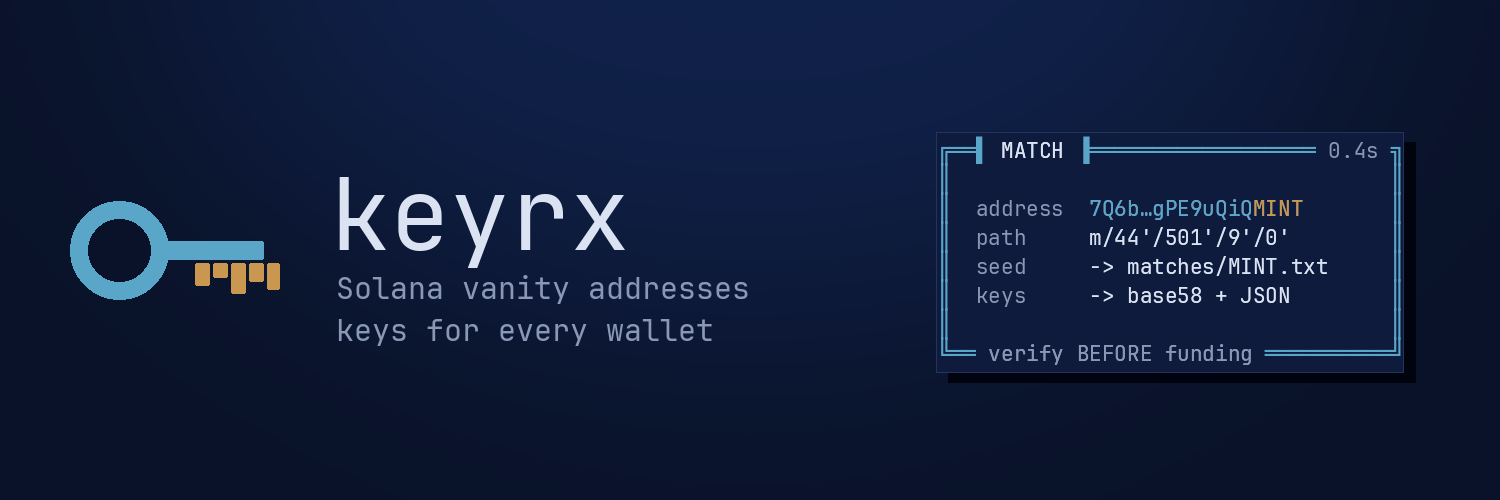
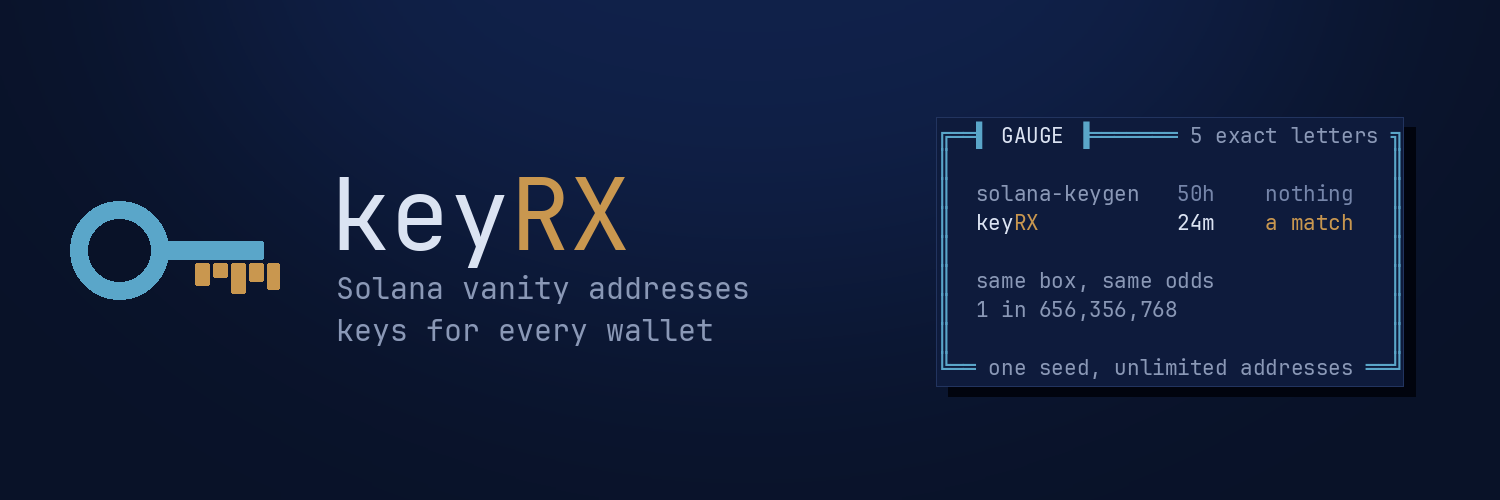
keyRX: the brand's own case, and the headline
Brand mentions restyle as keyRX - masthead, site wordmark and title,
README, logo title, donate copy - while the command, crate, paths and
URLs stay lowercase keyrx (a mixed-case command is hostile). Banner and
OG image rebuilt: keyRX wordmark with the amber RX, and the headline
panel with the operator's own numbers - GAUGE, five exact letters:
solana-keygen 50h nothing, keyRX 24m a match, same box, same odds - as
measured, colored segments painted once. README leads with the same
line.

diff --git a/site/index.html b/site/index.html
@@ -3,7 +3,7 @@
 <head>
 <meta charset="utf-8">
 <meta name="viewport" content="width=device-width,initial-scale=1">
-<title>keyrx — Solana vanity addresses, keys for every wallet</title>
+<title>keyRX — Solana vanity addresses, keys for every wallet</title>
 <meta name="description" content="keyrx grinds Solana vanity addresses 20-60x faster than solana-keygen and hands you the seed, the path and the keypair in both wallet-import forms. One Rust binary. No daemon, no service, no network.">
 <meta http-equiv="Content-Security-Policy" content="default-src 'none'; script-src 'unsafe-inline' blob:; style-src 'unsafe-inline'; font-src data:; img-src 'self' data:; worker-src blob:; base-uri 'none'; form-action 'none'">
 <meta name="referrer" content="strict-origin-when-cross-origin">
@@ -14,7 +14,7 @@
 <link rel="apple-touch-icon" sizes="180x180" href="/favicon-180.png">
 <meta property="og:image" content="https://keyrx.tech/og.png">
 <meta name="twitter:card" content="summary_large_image">
-<meta property="og:title" content="keyrx — vanity addresses, keys for every wallet">
+<meta property="og:title" content="keyRX — vanity addresses, keys for every wallet">
 <meta property="og:description" content="Try the grind in your browser. Nothing leaves it.">
 <meta property="og:url" content="https://keyrx.tech/">
 <style>
@@ -82,9 +82,9 @@ noscript div{white-space:normal;max-width:68ch;color:var(--gray);padding:1em 0}
 <body>
 <div id="scr"><div id="page">
 <noscript><div>
-  <h1>keyrx</h1>
+  <h1>keyRX</h1>
   <p>Solana vanity addresses, 20-60x faster than solana-keygen grind. One seed phrase is a tree of
-  addresses: keyrx pays the expensive step once per seed and walks the branches. Every match writes
+  addresses: keyRX pays the expensive step once per seed and walks the branches. Every match writes
   the address, its derivation path, the seed, and the keypair in both wallet-import forms (base58 for
   Phantom, JSON array for Solflare). One Rust binary. No daemon, no service, no network.</p>
   <pre>cargo install keyrx
@@ -114,7 +114,7 @@ var out=document.getElementById('out'),scr=document.getElementById('scr'),
     inp=document.getElementById('in'),prom=document.getElementById('prompt'),
     sr=document.getElementById('sr');
 /* One place for the donation address; the CLI carries the same string in
-   its DONATE_SOL const - change both together. Empty until the keyrx vanity
+   its DONATE_SOL const - change both together. Empty until the keyRX vanity
    grind lands; the panel says so rather than show an address that is not ours. */
 var DONATE_SOL='';
 var MOBILE=false, W=78, IN=76;
@@ -165,7 +165,7 @@ function fmtDur(s){if(!isFinite(s)||s<0)return '--';if(s<90)return Math.round(s)
 
 /* ── masthead ─────────────────────────────────────────────────────────── */
 function masthead(right){
-  var head='[[c]]▐▌[[/]] [[w]]KEYRX[[/]]  [[d]]'+(MOBILE?'vanity addresses':'vanity addresses, keys for every wallet')+'[[/]]';
+  var head='[[c]]▐▌[[/]] [[w]]keyRX[[/]]  [[d]]'+(MOBILE?'vanity addresses':'vanity addresses, keys for every wallet')+'[[/]]';
   var rt='[[d]]'+right+'[[/]]';
   line(' '+head+' '.repeat(Math.max(1,W-vis(head)-vis(rt)-2))+rt);
   line(' [[f]]'+'━'.repeat(W-2)+'[[/]]');
@@ -225,7 +225,7 @@ var C={};
 C.what=function(){blank();
   head('WHAT THIS IS',MOBILE?'':'one seed, unlimited addresses, keys for every wallet');
   prose('d','Grinds Solana vanity addresses - an address that ends (or starts) with the letters you choose - and hands you everything a wallet needs to hold it: seed phrase, derivation path, and the keypair in both import forms (base58 for Phantom, JSON array for Solflare).');row('');
-  prose('d','Fast because solana-keygen grind pays 2048 rounds of PBKDF2 (~1.2 ms) to test ONE address; keyrx pays it once per seed, then walks that seed\'s account indices at ~21 us each: 20-60x the throughput.');row('');
+  prose('d','Fast because solana-keygen grind pays 2048 rounds of PBKDF2 (~1.2 ms) to test ONE address; keyRX pays it once per seed, then walks that seed\'s account indices at ~21 us each: 20-60x the throughput.');row('');
   prose('d','Standalone. No daemon, no service, no network. Secrets go to a mode-0600 file in a directory of their own, never to the screen unless you ask.');
   foot('verify -> bench -> estimate -> grind -> show');
   if(!MOBILE){
@@ -251,7 +251,7 @@ C.install=function(){blank();
   row('');
   note('or from source:  git clone https://github.com/keyrx/keyrx && cd keyrx');
   note('                 RUSTFLAGS="-C target-cpu=native" cargo install --path .');
-  foot('keyrx alone prints a start screen that explains every flag');blank();};
+  foot('keyrx (the command) alone prints a start screen that explains every flag');blank();};
 C.match=function(){blank();
   head('WHAT A MATCH WRITES',MOBILE?'':'five lines, mode 0600, in a directory of their own');
   kv('address','the vanity address');
@@ -290,7 +290,7 @@ C.verified=function(){blank();
   foot(MOBILE?'':'a wrong SLIP-0010 grinds fine and prints an address no wallet can derive - so it is tested');blank();};
 C.donate=function(){blank();
   head('DONATE',MOBILE?'':'optional, and it changes nothing');
-  prose('d','keyrx is MIT and stays that way. No paid tier, no hosted version waiting behind it, no feature held back. Nothing here is gated on this.');row('');
+  prose('d','keyRX is MIT and stays that way. No paid tier, no hosted version waiting behind it, no feature held back. Nothing here is gated on this.');row('');
   row('  [[w]]Solana[[/]]');
   if(DONATE_SOL){
     if(MOBILE){row('  [[y]]'+DONATE_SOL.slice(0,5)+'...'+DONATE_SOL.slice(-5)+'[[/]]  [[f]]tap to copy[[/]]');}
@@ -298,16 +298,16 @@ C.donate=function(){blank();
     (function(){var b=out.querySelectorAll('b.y');for(var i=b.length-1;i>=0;i--){var t=b[i].textContent.trim();
       if(t===DONATE_SOL||t===DONATE_SOL.slice(0,5)+'...'+DONATE_SOL.slice(-5)){b[i].className='y addr';b[i].title='click to copy';break;}}})();
   } else {
-    prose('d','address not set yet - it will be a keyrx vanity address, ground with this tool.');
+    prose('d','address not set yet - it will be a keyRX vanity address, ground with this tool.');
   }
   row('');
   prose('f','If you got more out of this than it cost you to read the source, that trade already worked. Chip in a Sol or two if you like. It buys nothing - no tier, no badge, no priority - which is what makes it a donation and not a purchase.');
   row('');
-  prose('w','There will be no keyrx token from the developer of keyrx.');
+  prose('w','There will be no keyRX token from the developer of keyRX.');
   prose('d','No presale. No airdrop. No community round. No Phase 3.');row('');
   prose('d','You can launch one - someone always does. The ask: creator fees plus 3% of supply to the address above, and the token\'s socials pointed at @keyrx_tech and keyrx.tech - the only two places this project exists. What you may not do is LARP as this project while you do it: no "official", no borrowed name, no invented team.');row('');
-  row('  [[w]]X is the only place keyrx exists.[[/]]');
-  prose('d','No Discord, no Telegram, no Reddit, no group chat, no "community". If something calls itself keyrx anywhere other than @keyrx_tech or keyrx.tech, it is not us.');
+  row('  [[w]]X is the only place keyRX exists.[[/]]');
+  prose('d','No Discord, no Telegram, no Reddit, no group chat, no "community". If something calls itself keyRX anywhere other than @keyrx_tech or keyrx.tech, it is not us.');
   foot('a listing is not an endorsement · DYOR');blank();};
 out.addEventListener('click',function(e){var t=e.target.closest&&e.target.closest('b.addr');if(!t||!DONATE_SOL)return;
   navigator.clipboard.writeText(DONATE_SOL).then(function(){blank();line('  [[g]]Copied[[/]] [[d]]- Solana address[[/]]');blank();bottom();});});

diff --git a/src/main.rs b/src/main.rs
@@ -1,4 +1,4 @@
-// keyrx -- Solana vanity address grinder
+// keyRX -- Solana vanity address grinder
 //
 // Standalone terminal tool. No daemon, no service, no network.
 //
@@ -46,7 +46,7 @@ type HmacSha512 = Hmac<Sha512>;
 const HARDENED: u32 = 0x8000_0000;
 /// The donation address. ONE place - the CLI panel reads it, and the site
 /// carries the same string in its own DONATE_SOL const; change both
-/// together. Set once the keyrx vanity grind lands; until then the panel
+/// together. Set once the keyRX vanity grind lands; until then the panel
 /// says so rather than showing an address that is not ours.
 const DONATE_SOL: &str = "";
 const B58: &[u8; 58] = b"123456789ABCDEFGHJKLMNPQRSTUVWXYZabcdefghijkmnopqrstuvwxyz";
@@ -722,7 +722,7 @@ fn cmd_start() {
     println!("{}", n("both import forms (base58 for Phantom, JSON array for Solflare)."));
     blank();
     println!("{}", n("Fast because `solana-keygen grind` pays 2048 rounds of PBKDF2 (~1.2 ms)"));
-    println!("{}", n("to test ONE address; keyrx pays it once per seed, then walks that"));
+    println!("{}", n("to test ONE address; keyRX pays it once per seed, then walks that"));
     println!("{}", n("seed's account indices at ~21 us each: 20-60x the throughput."));
     blank();
     println!("{}", n("Standalone. No daemon, no service, no network. Secrets go to a"));
@@ -865,13 +865,13 @@ fn cmd_start() {
 fn cmd_donate() {
     ui::masthead("donate");
     println!("{}", ui::top("DONATE", "optional, and it changes nothing"));
-    println!("{}", ui::note("keyrx is MIT and stays that way. No paid tier, no hosted version"));
+    println!("{}", ui::note("keyRX is MIT and stays that way. No paid tier, no hosted version"));
     println!("{}", ui::note("waiting behind it, no feature held back. Nothing is gated on this."));
     println!("{}", ui::mid(""));
     println!("{}", ui::mid(&format!("  {}{}Solana{}", ui::b(), ui::wht(), ui::r())));
     #[allow(clippy::const_is_empty)]   // empty until the vanity grind lands
     if DONATE_SOL.is_empty() {
-        println!("{}", ui::note("address not set yet - it will be a keyrx vanity address, ground"));
+        println!("{}", ui::note("address not set yet - it will be a keyRX vanity address, ground"));
         println!("{}", ui::note("with this tool. Check keyrx.tech."));
     } else {
         println!("{}", ui::mid(&format!("  {}{}{}", ui::warn(), DONATE_SOL, ui::r())));
@@ -882,7 +882,7 @@ fn cmd_donate() {
     println!("{}", ui::note("buys nothing - no tier, no badge, no priority - which is what makes"));
     println!("{}", ui::note("it a donation and not a purchase."));
     println!("{}", ui::mid(""));
-    println!("{}", ui::mid(&format!("  {}{}There will be no keyrx token from the developer of keyrx.{}", ui::b(), ui::wht(), ui::r())));
+    println!("{}", ui::mid(&format!("  {}{}There will be no keyRX token from the developer of keyRX.{}", ui::b(), ui::wht(), ui::r())));
     println!("{}", ui::note("No presale. No airdrop. No community round. No Phase 3."));
     println!("{}", ui::mid(""));
     println!("{}", ui::note("You can launch one - someone always does. The ask: creator fees"));
@@ -891,9 +891,9 @@ fn cmd_donate() {
     println!("{}", ui::note("project exists. What you may not do is LARP as this project while"));
     println!("{}", ui::note("you do it: no \"official\", no borrowed name, no invented team."));
     println!("{}", ui::mid(""));
-    println!("{}", ui::mid(&format!("  {}{}X is the only place keyrx exists.{}", ui::b(), ui::wht(), ui::r())));
+    println!("{}", ui::mid(&format!("  {}{}X is the only place keyRX exists.{}", ui::b(), ui::wht(), ui::r())));
     println!("{}", ui::note("No Discord, no Telegram, no Reddit, no group chat, no \"community\"."));
-    println!("{}", ui::note("If something calls itself keyrx anywhere other than @keyrx_tech or"));
+    println!("{}", ui::note("If something calls itself keyRX anywhere other than @keyrx_tech or"));
     println!("{}", ui::note("keyrx.tech, it is not us."));
     println!("{}", ui::bot("a listing is not an endorsement · DYOR"));
     println!();

diff --git a/src/ui.rs b/src/ui.rs
@@ -169,10 +169,10 @@ pub fn crit_line(text: &str) -> String {
     mid(&format!("  {}▲ {}{}", crit(), text, r()))
 }
 
-/// The masthead: ▐▌ KEYRX  one mnemonic, unlimited addresses     right-hand note
+/// The masthead: ▐▌ keyRX  one mnemonic, unlimited addresses     right-hand note
 pub fn masthead(right: &str) {
     let logo = format!("{}▐▌{}", accent(), r());
-    let name = format!("{}{}KEYRX{}  {}vanity addresses, keys for every wallet{}", b(), wht(), r(), gry(), r());
+    let name = format!("{}{}keyRX{}  {}vanity addresses, keys for every wallet{}", b(), wht(), r(), gry(), r());
     let head = format!(" {} {}", logo, name);
     let rt = format!("{}{}{}", gry(), right, r());
     let gap = (W as isize - vis(&head) as isize - vis(&rt) as isize - 1).max(1) as usize;

diff --git a/README.md b/README.md
@@ -1,4 +1,7 @@
-# keyrx
+# keyRX
+
+**GAUGE, five exact letters. `solana-keygen grind`: 50 hours, nothing. keyRX: 24 minutes,
+a match.** Same machine, same 1-in-656,356,768 odds - measured, not estimated.
 
 Solana BIP39 vanity address grinder. Standalone terminal tool — no daemon,
 no service, no network. Replaces `solana-keygen grind --use-mnemonic`.
